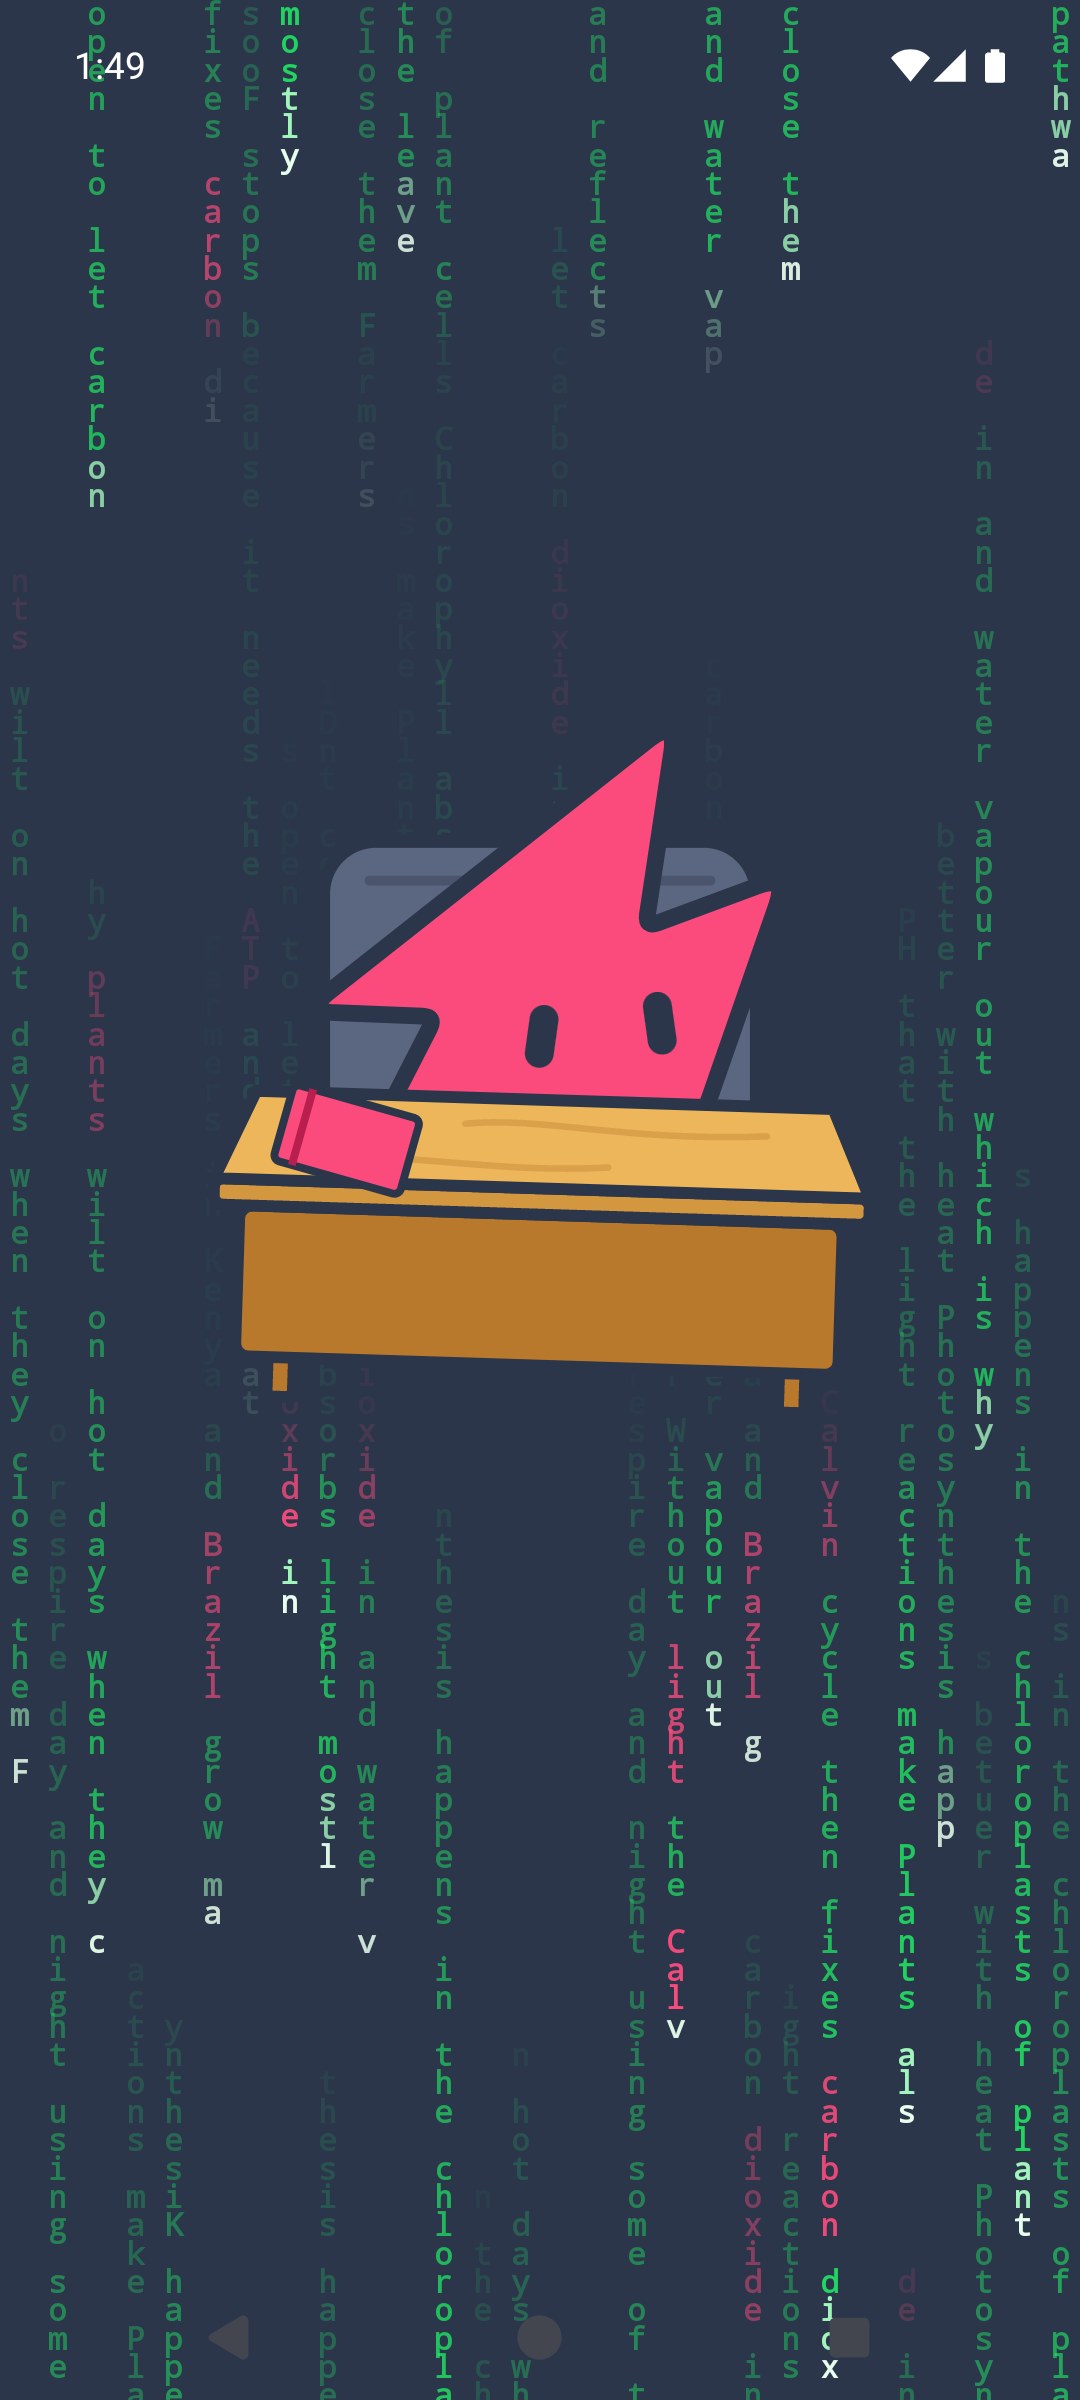
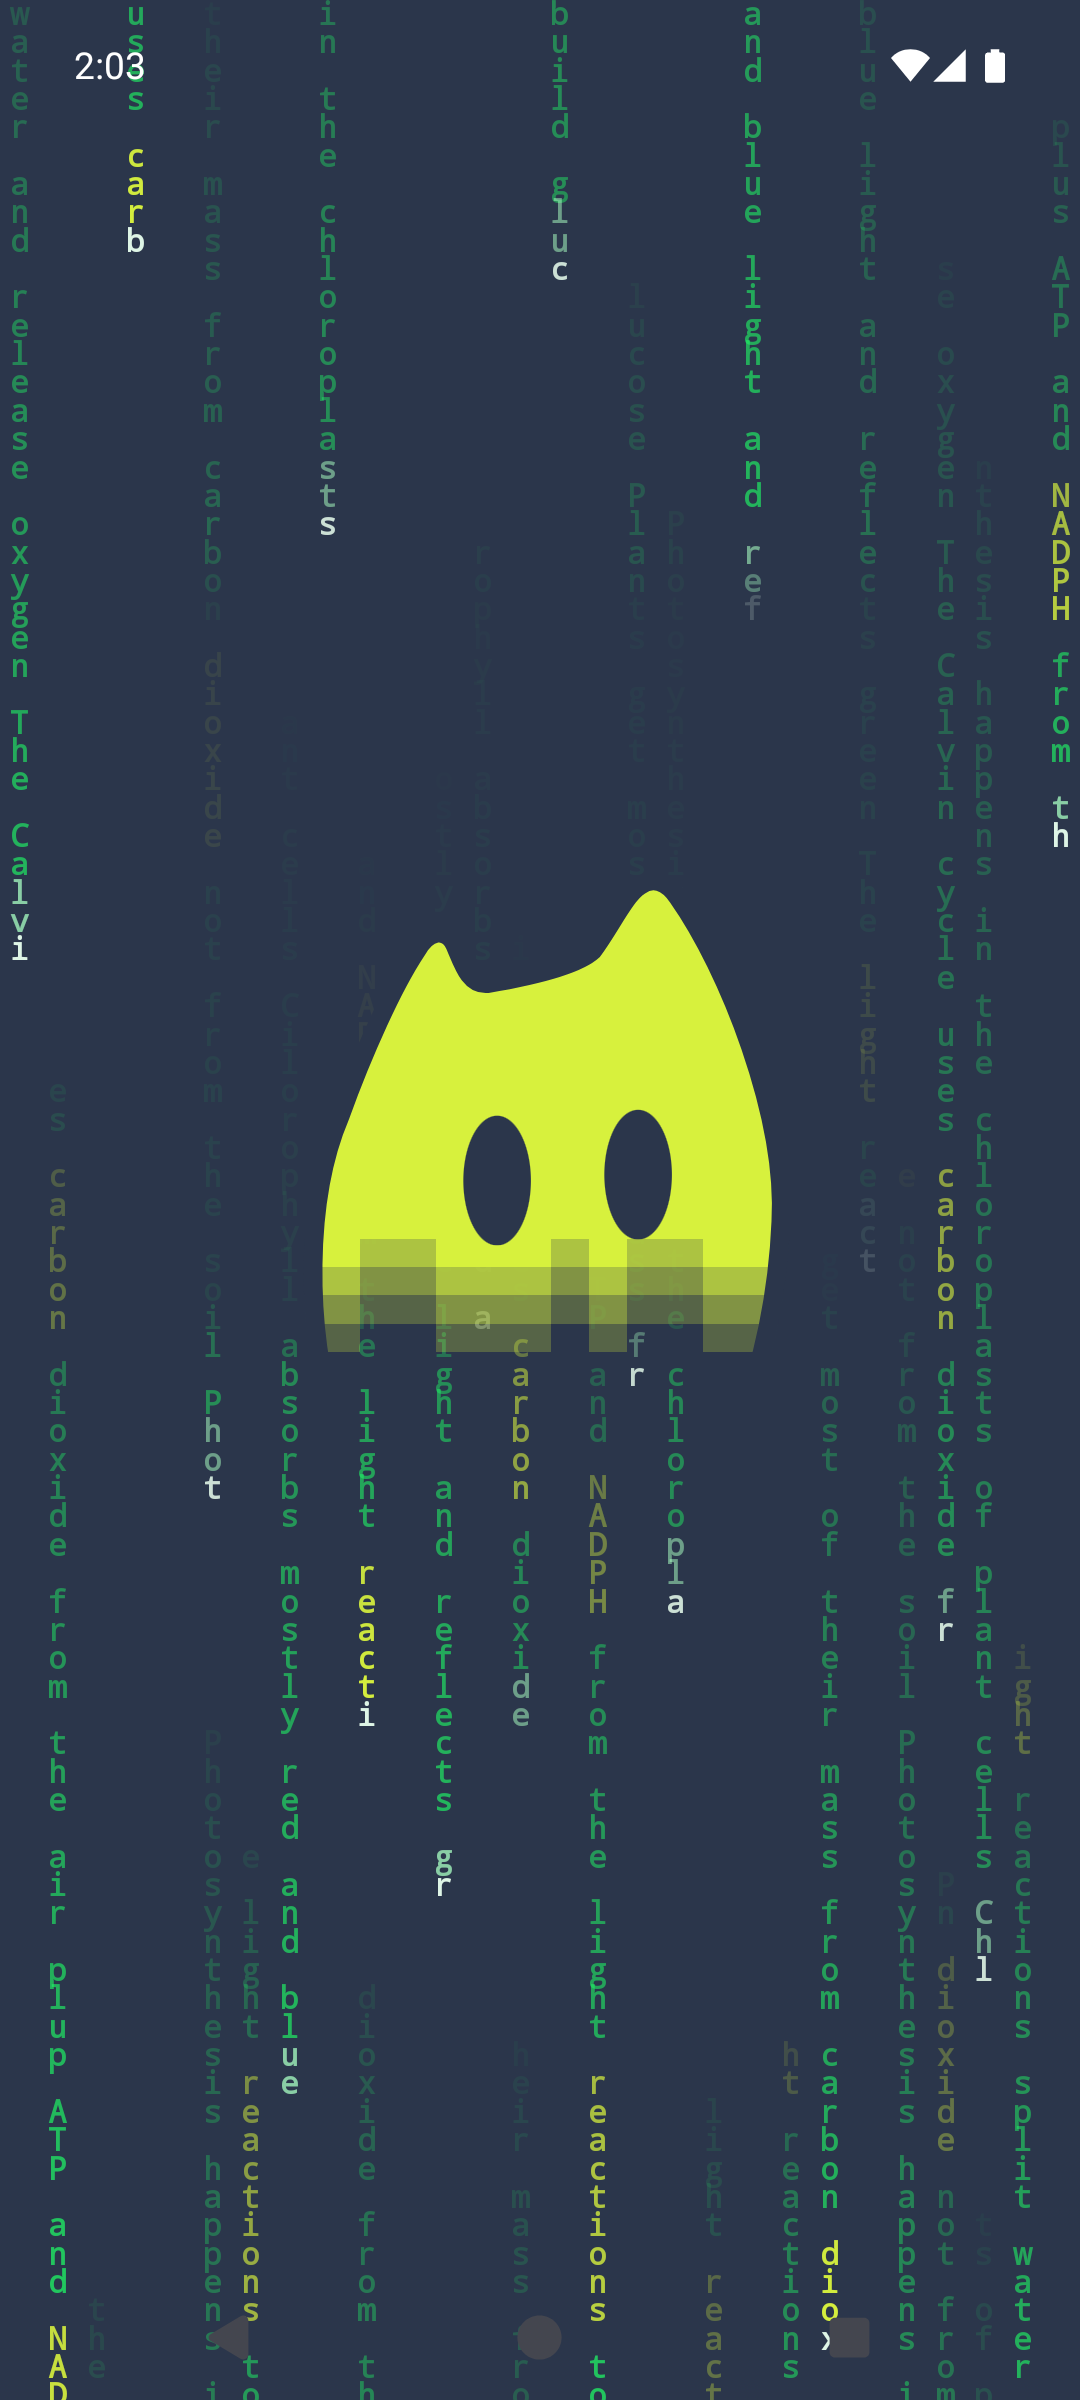
Reading: the student alone, dissolving into the rain
Swap StudentAtDesk for the bare StudentFigure (224dp, centred). The
bust's base dissolves into the rain in flat per-cell alpha steps on the
rain grid. Word flights aim at the figure's real head and the calm area
follows the new figure and motes. Desk constants removed.

diff --git a/app/src/main/java/app/chalkroom/feature/reading/ReadingScreen.kt b/app/src/main/java/app/chalkroom/feature/reading/ReadingScreen.kt
@@ -31,24 +31,31 @@ import androidx.compose.runtime.mutableStateOf
 import androidx.compose.runtime.remember
 import androidx.compose.ui.Alignment
 import androidx.compose.ui.Modifier
+import androidx.compose.ui.draw.drawWithContent
 import androidx.compose.ui.geometry.Offset
 import androidx.compose.ui.geometry.Rect
+import androidx.compose.ui.geometry.Size
+import androidx.compose.ui.graphics.BlendMode
 import androidx.compose.ui.graphics.Color
+import androidx.compose.ui.graphics.CompositingStrategy
 import androidx.compose.ui.graphics.graphicsLayer
 import androidx.compose.ui.layout.boundsInRoot
 import androidx.compose.ui.layout.onGloballyPositioned
 import androidx.compose.ui.platform.LocalDensity
 import androidx.compose.ui.tooling.preview.Preview
 import androidx.compose.ui.unit.dp
+import androidx.compose.ui.unit.sp
 import androidx.lifecycle.compose.collectAsStateWithLifecycle
 import app.chalkroom.feature.reading.ReadingContract.Phase
 import app.chalkroom.feature.reading.ReadingContract.UiEffect
 import app.chalkroom.feature.reading.ReadingContract.UiEvent
 import app.chalkroom.feature.reading.ReadingContract.UiState
 import app.chalkroom.shared.StudentId
+import app.chalkroom.students.FIGURE_ASPECT
 import app.chalkroom.students.Mote
-import app.chalkroom.students.StudentAtDesk
 import app.chalkroom.students.StudentCatalog
+import app.chalkroom.students.StudentFigure
+import app.chalkroom.students.StudentShapes
 import app.chalkroom.ui.components.LightStatusBarIcons
 import app.chalkroom.ui.components.LineCard
 import app.chalkroom.ui.components.PrimaryButton
@@ -57,6 +64,9 @@ import app.chalkroom.ui.theme.Chalkroom
 import app.chalkroom.ui.theme.ChalkroomTheme
 import org.koin.compose.viewmodel.koinViewModel
 import org.koin.core.parameter.parametersOf
+import kotlin.math.ceil
+import kotlin.math.roundToInt
+import kotlin.random.Random
 
 @Composable
 fun ReadingScreen(
@@ -128,13 +138,20 @@ fun ReadingContent(state: UiState, onEvent: (UiEvent) -> Unit) {
     }
 }
 
-private val STAGE_H = 360.dp
-private val DESK_W = 250.dp
-private val MOTES_REACH = 72.dp
+private val FIGURE_W = 224.dp
+private val FIGURE_H = FIGURE_W * FIGURE_ASPECT
+/** Room above the figure where the words lift out of the rain. */
+private val FLIGHT_ROOM = 56.dp
+private val STAGE_H = FIGURE_H + FLIGHT_ROOM
+/** Margin around the figure for the motes' wobble and the last mote's bigger size. */
+private val MOTES_MARGIN = 12.dp
+/** How many rain rows the bust's base takes to dissolve: all of them below the eyes. */
+private const val DISSOLVE_ROWS = 4
 
 /**
- * The student at a desk over the notes rain. When the deck arrives, a highlighted word from the
- * notes floats to the head, in the student's colour, for each mote that condenses.
+ * The student alone over the notes rain, the base of the bust dissolving into it. When the deck
+ * arrives, a highlighted word from the notes floats to the head, in the student's colour, for each
+ * mote that condenses.
  */
 @Composable
 private fun ReadingStage(state: UiState, rainText: RainText, onStudentArea: (Rect) -> Unit) {
@@ -143,24 +160,33 @@ private fun ReadingStage(state: UiState, rainText: RainText, onStudentArea: (Rec
     val words = remember(rainText) {
         rainText.keyWords.ifEmpty { rainText.words.filter { it.length >= 5 }.distinct() }.ifEmpty { listOf("notes") }
     }
-    val motesReach = with(LocalDensity.current) { MOTES_REACH.toPx() }
+    val density = LocalDensity.current
+    val margin = with(density) { MOTES_MARGIN.toPx() }
+    // The rain comes back up into the dissolving base, so the calm area stops halfway into it.
+    val dissolveH = with(density) { (GLYPH_SP * GLYPH_H).sp.toPx() } * DISSOLVE_ROWS
     BoxWithConstraints(Modifier.fillMaxWidth().height(STAGE_H)) {
         val w = maxWidth
-        StudentAtDesk(
+        StudentFigure(
             studentId = state.studentId,
             expression = state.expression,
             motes = state.motes,
             look = state.look,
             nodTick = state.nodTick,
-            showName = false,
             modifier = Modifier
                 .align(Alignment.BottomCenter)
-                .width(DESK_W)
-                // The motes gather over the head, so the calm area reaches above the figure.
-                .onGloballyPositioned { val b = it.boundsInRoot(); onStudentArea(b.copy(top = b.top - motesReach)) },
+                .width(FIGURE_W)
+                .dissolveBase(DISSOLVE_ROWS)
+                .onGloballyPositioned {
+                    val b = it.boundsInRoot()
+                    onStudentArea(Rect(b.left - margin, b.top - margin, b.right + margin, b.bottom - dissolveH / 2))
+                },
         )
-        // Over the head, where the motes gather.
-        val head = Offset(w.value / 2, (STAGE_H - DESK_W * 1.34f).value + DESK_W.value * 0.3f)
+        // The head, on the figure as it is drawn: the face's centre, a little above the eyes.
+        val face = StudentShapes.face(state.studentId)
+        val head = Offset(
+            (w - FIGURE_W).value / 2 + face.center.x * FIGURE_W.value,
+            FLIGHT_ROOM.value + (face.center.y - HEAD_ABOVE_EYES) * FIGURE_W.value,
+        )
         state.motes.forEachIndexed { i, mote ->
             key(mote.id) {
                 val word = words[(i * 7 + 3) % words.size]
@@ -170,6 +196,42 @@ private fun ReadingStage(state: UiState, rainText: RainText, onStudentArea: (Rec
         }
     }
 }
+
+/** From the eyes up to the middle of the head, in figure widths. */
+private const val HEAD_ABOVE_EYES = 0.12f
+
+/**
+ * The bottom [rows] rows of the rain grid dissolve the bust cell by cell, the way a stream's trail
+ * fades: each row up keeps a quarter more of the bust, some columns a step behind their
+ * neighbours (seeded) so the edge isn't a line. Alpha only: every cell is one flat value, no
+ * gradient and no blur. Cells are snapped to whole pixels so no seams show between them.
+ */
+private fun Modifier.dissolveBase(rows: Int): Modifier =
+    graphicsLayer { compositingStrategy = CompositingStrategy.Offscreen }
+        .drawWithContent {
+            drawContent()
+            val cellH = (GLYPH_SP * GLYPH_H).sp.toPx()
+            val cellW = COLUMN_W.toPx()
+            val cols = ceil(size.width / cellW).toInt()
+            val random = Random(7)
+            for (c in 0 until cols) {
+                val lag = random.nextInt(2)
+                val left = (c * cellW).roundToInt().toFloat()
+                val right = minOf(((c + 1) * cellW).roundToInt().toFloat(), size.width)
+                for (r in 0 until rows) {
+                    val keep = ((r + lag).toFloat() / rows).coerceAtMost(1f)
+                    if (keep >= 1f) continue
+                    val bottom = (size.height - r * cellH).roundToInt().toFloat()
+                    val top = (size.height - (r + 1) * cellH).roundToInt().toFloat()
+                    drawRect(
+                        Color.Black.copy(alpha = 1f - keep),
+                        topLeft = Offset(left, top),
+                        size = Size(right - left, bottom - top),
+                        blendMode = BlendMode.DstOut,
+                    )
+                }
+            }
+        }
 
 /** One word lifting out of the rain and condensing into the head. */
 @Composable

diff --git a/app/src/main/java/app/chalkroom/feature/reading/NotesRainBackground.kt b/app/src/main/java/app/chalkroom/feature/reading/NotesRainBackground.kt
@@ -30,10 +30,10 @@ import kotlin.math.roundToInt
 import kotlin.random.Random
 
 /** One cell size for every column: the glyph's size, and the step down a stream is the glyph's height. */
-private const val GLYPH_SP = 12f
-private const val GLYPH_H = 0.9f
+internal const val GLYPH_SP = 12f
+internal const val GLYPH_H = 0.9f
 /** Columns sit side by side at one width, about this wide, 26–32 of them across a phone. */
-private val COLUMN_W = 14.5.dp
+internal val COLUMN_W = 14.5.dp
 private const val MIN_COLUMNS = 26
 private const val MAX_COLUMNS = 32
 /** Depth comes only from brightness: three tiers, faint to bright. */

diff --git a/devpost/checklist.md b/devpost/checklist.md
@@ -195,3 +195,4 @@ Activity mode:
 - Paste Notes: teach from a PDF (learner spec). A PDF lands on the same sheet as a file, is read on the device with pdfbox-android (Apache-2.0), cleaned (unreadable pages, running headers, line-end hyphens, paragraphs) and cut into equal parts of at most 8,000 characters; only one part's text goes to the unchanged `POST /decks`. More than one part opens a new "Which part are we doing?" screen (no top Back button; system Back only, learner decision). Two rules were added to the spec: a block's first line is only a heading when it's under 80% of the width of the lines below it (otherwise a wrapped first line of prose became its own paragraph), and each cut must leave no more than the remaining parts can hold (otherwise 50k characters came out as 8 parts, not 7). All headings rate the same, so on the test PDF part 2 starts at the subheading "Continental Drift" rather than at "Plate Tectonics". The PDF button hides once anything is typed, so "Paste text instead" bringing typed text back is covered by a ViewModel test; on the emulator it returns to the editor with the draft as it was. Verified on `emulator-5554` with test PDFs made on the host (a one-page note, ~27k characters of prose with headings, 160 pages, an image-only scan, a PDFKit password-locked copy, plus a 51 MB file and a broken file): real decks from (a) and from part 2 of (b), the pages dialog read 1–20, Stop and Back mid-read, every error line plain and in Pip's voice (Mira's lesson was finished first; the named run used Pip), and reduced motion. Test PDFs deleted from the emulator, animation scales back to 1. Screenshots are in `devpost/screenshots/pdf-input/`.
 - Reading: digital rain from the notes (learner spec). The Reading screen is now dark (`ink` edge to edge, light status and navigation bar icons; the lesson's `LightStatusBarIcons` moved to `ui/components/SystemBars.kt`). The old faint paragraph is gone; behind everything falls a Matrix-style rain built from the full notes (the state carries `notes` instead of the 420-character preview): one-character columns in three depths (10/14/19sp monospace, faint to bright), each stream spelling the notes' words in order from a random word, one empty cell between words, a chalk-white head and a trail in the new `rain` token (`#98EDBE`) fading over 8–20 cells, 1.5–4 s to cross the screen, random start delays and pauses so some columns are always empty, and about 1 in 25 trail glyphs flickering to another letter for 80 ms. About 1 in 6 words are highlighted in the student's colour, key terms first (repeated words, or capitalised mid-sentence), then words of 7+ letters, never two in a row; REVEALING's word flights now use those words, in the student's colour. Behind the student and the motes above the head the rain is capped at 14% alpha, easing off over 32dp. COUNTED, EMPTY and FAILED slow it to a third and dim it to half over 600 ms. Reduced motion draws one still frame. The model (`NotesRain`, `RainText`) is pure Kotlin with a seeded Random and 6 unit tests; drawing is one Canvas driven by `withFrameNanos`, reading time only in the draw phase, with glyphs measured once per depth. The count line and messages were already chalk-white on their ink `LineCard`, which now blends into the slate with only its lavender ledge showing. Verified on `emulator-5554` with short typed notes (Mira) and part 1 of a two-part test PDF (Pip, then Juno), FAILED in airplane mode, and reduced motion (two screenshots byte-identical). Frame stats while the rain ran: ~60 fps, 0.55% janky frames (the lesson screen idle: 0%). Airplane mode off, animation scales back to 1, test PDF deleted. Screenshots are in `devpost/screenshots/reading-rain/`.
 - Reading rain, closer to the film (learner follow-up). The rain is now a real grid: 26–32 columns (28 on the 411dp emulator) at one width that fills the screen with no gaps, one 12sp bold monospace cell for every column, and a vertical step of 0.9 em so letters in a stream nearly touch. The three font sizes are gone; depth is only brightness, three alpha tiers per column (55/80/100%), so columns never overlap. Each column carries up to two streams (`NotesRain.LANES`): a second stream starts only once the first is 6 empty rows down and never falls faster than it, so the gap only grows. Trails span 30–65% of the screen's height; streams cross in 1–2.5 s; first-lane pauses 0.8–4.2 s and second-lane pauses 3–9 s give about 66% of columns lit at once (about 14% of columns carrying two streams), measured in a unit test that also checks no two streams in a column share a cell. Colour: the `rain` token is now the film's phosphor green `#1FEF64`; the head is near-white (`#E8FFEE`) and the brightest cell of its stream, the 2 cells behind it a light green (`#A8FFC2`), then the trail fades on a 0.6 curve. Highlights are about 1 in 12 words (was 1 in 6), still in the student's colour. Flicker is 1 in 15 trail glyphs. Drawing moved from Compose `drawText` per glyph to one prepared `android.graphics.Paint` on the native canvas (Skia's glyph atlas does the caching), with the colour packed per cell, so a frame allocates nothing. The focus cap behind the student and motes, calm, word flights and reduced motion are unchanged. The count line and EMPTY/FAILED messages on this screen use `LineCard` with the new `surface`/`outline` parameters: `ink2` with a 2dp chalk-white outline that also runs up the notch, lavender ledge kept (other screens unchanged). NotesRain tests now 8 (grid density and no-overlap; head is the brightest cell); all app (103) and server (12) tests pass. Verified on `emulator-5554` with typed photosynthesis notes (Pip) and mitosis notes (Mira), FAILED in airplane mode (Juno), and reduced motion (three captures byte-identical). Frame stats on a clean run (no screenshots) over the Reading screen: 357 frames at 60 Hz, 3 janky (0.84%; was 0.55% with the sparser rain). Airplane mode off and all three animation scales back to 1. Screenshots in `devpost/screenshots/reading-rain/` replaced.
+- Reading: the student alone (learner follow-up). The Reading screen shows the bare `StudentFigure` (same component and parameters as the lesson: expression, motes, look, nodTick) instead of `StudentAtDesk`: 224dp wide (the desk's student was 200dp), centred, motes inside the figure's canvas so they stay on screen. The bust's flat bottom dissolves into the rain instead of sitting on a card: its bottom 4 rain rows (cells the rain grid's size, 14.5dp × 10.8dp, snapped to whole pixels) are erased cell by cell in flat alpha steps (each row up keeps a quarter more; half the columns, seeded, a step behind), no gradient and no blur. This was chosen over sitting the card under the bust because READING and REVEALING have no card, so the cut would still float there; the count card and messages sit just under the dissolve with the notch pointing up. 4 rows keep every student's eyes clear (5 cut into Mira's). Word flights now aim at the figure's real head (`StudentShapes.face` centre, 0.12 figure widths above the eyes) instead of the old desk maths, and the calm area behind the student is the figure's bounds plus 12dp for the motes, stopping halfway into the dissolve so the rain comes back up through the base. Desk constants (`DESK_W`, `MOTES_REACH`) removed; the rain's cell size constants are now `internal` so the dissolve matches the grid. All app (103) and server (12) tests pass. Verified on `emulator-5554` with typed photosynthesis notes for Mira, Pip and Juno (READING, REVEALING, COUNTED) and FAILED in airplane mode for all three; airplane mode off again, animation scales untouched. Screenshots in `devpost/screenshots/reading-rain/` replaced (short = Pip, long = Mira, `failed-airplane` = Juno), plus new `juno-*` and `failed-airplane-mira`/`-pip`; `reduced-motion.png` was not retaken and still shows the desk.
